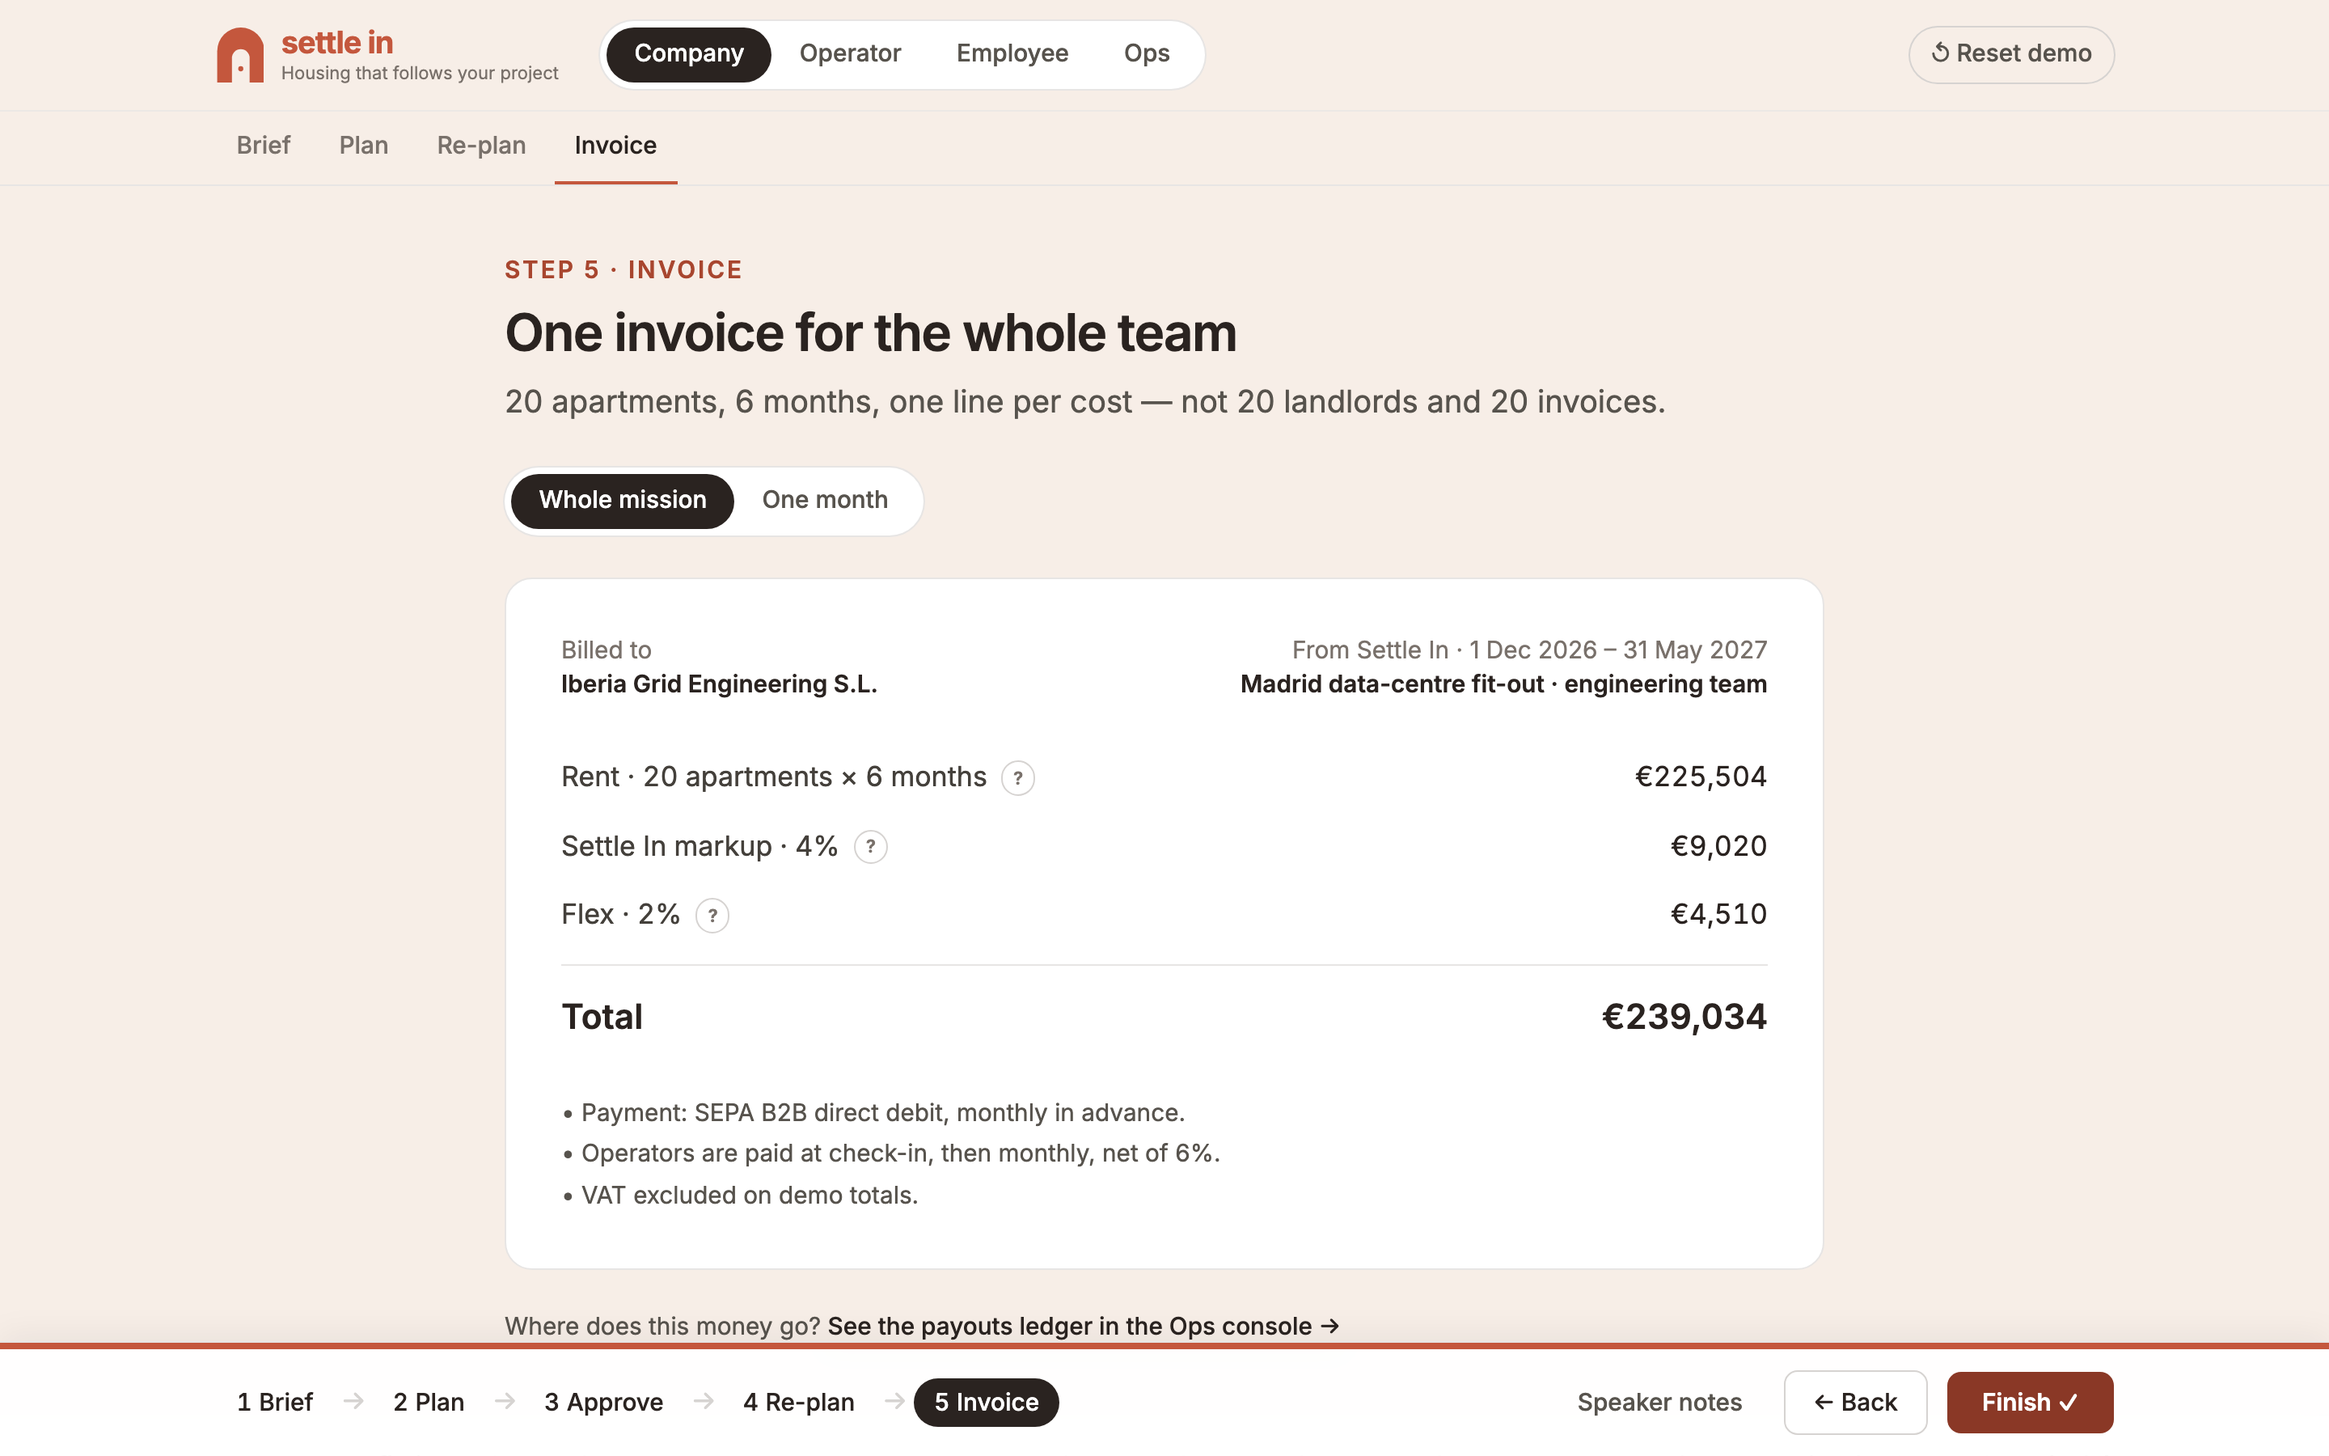
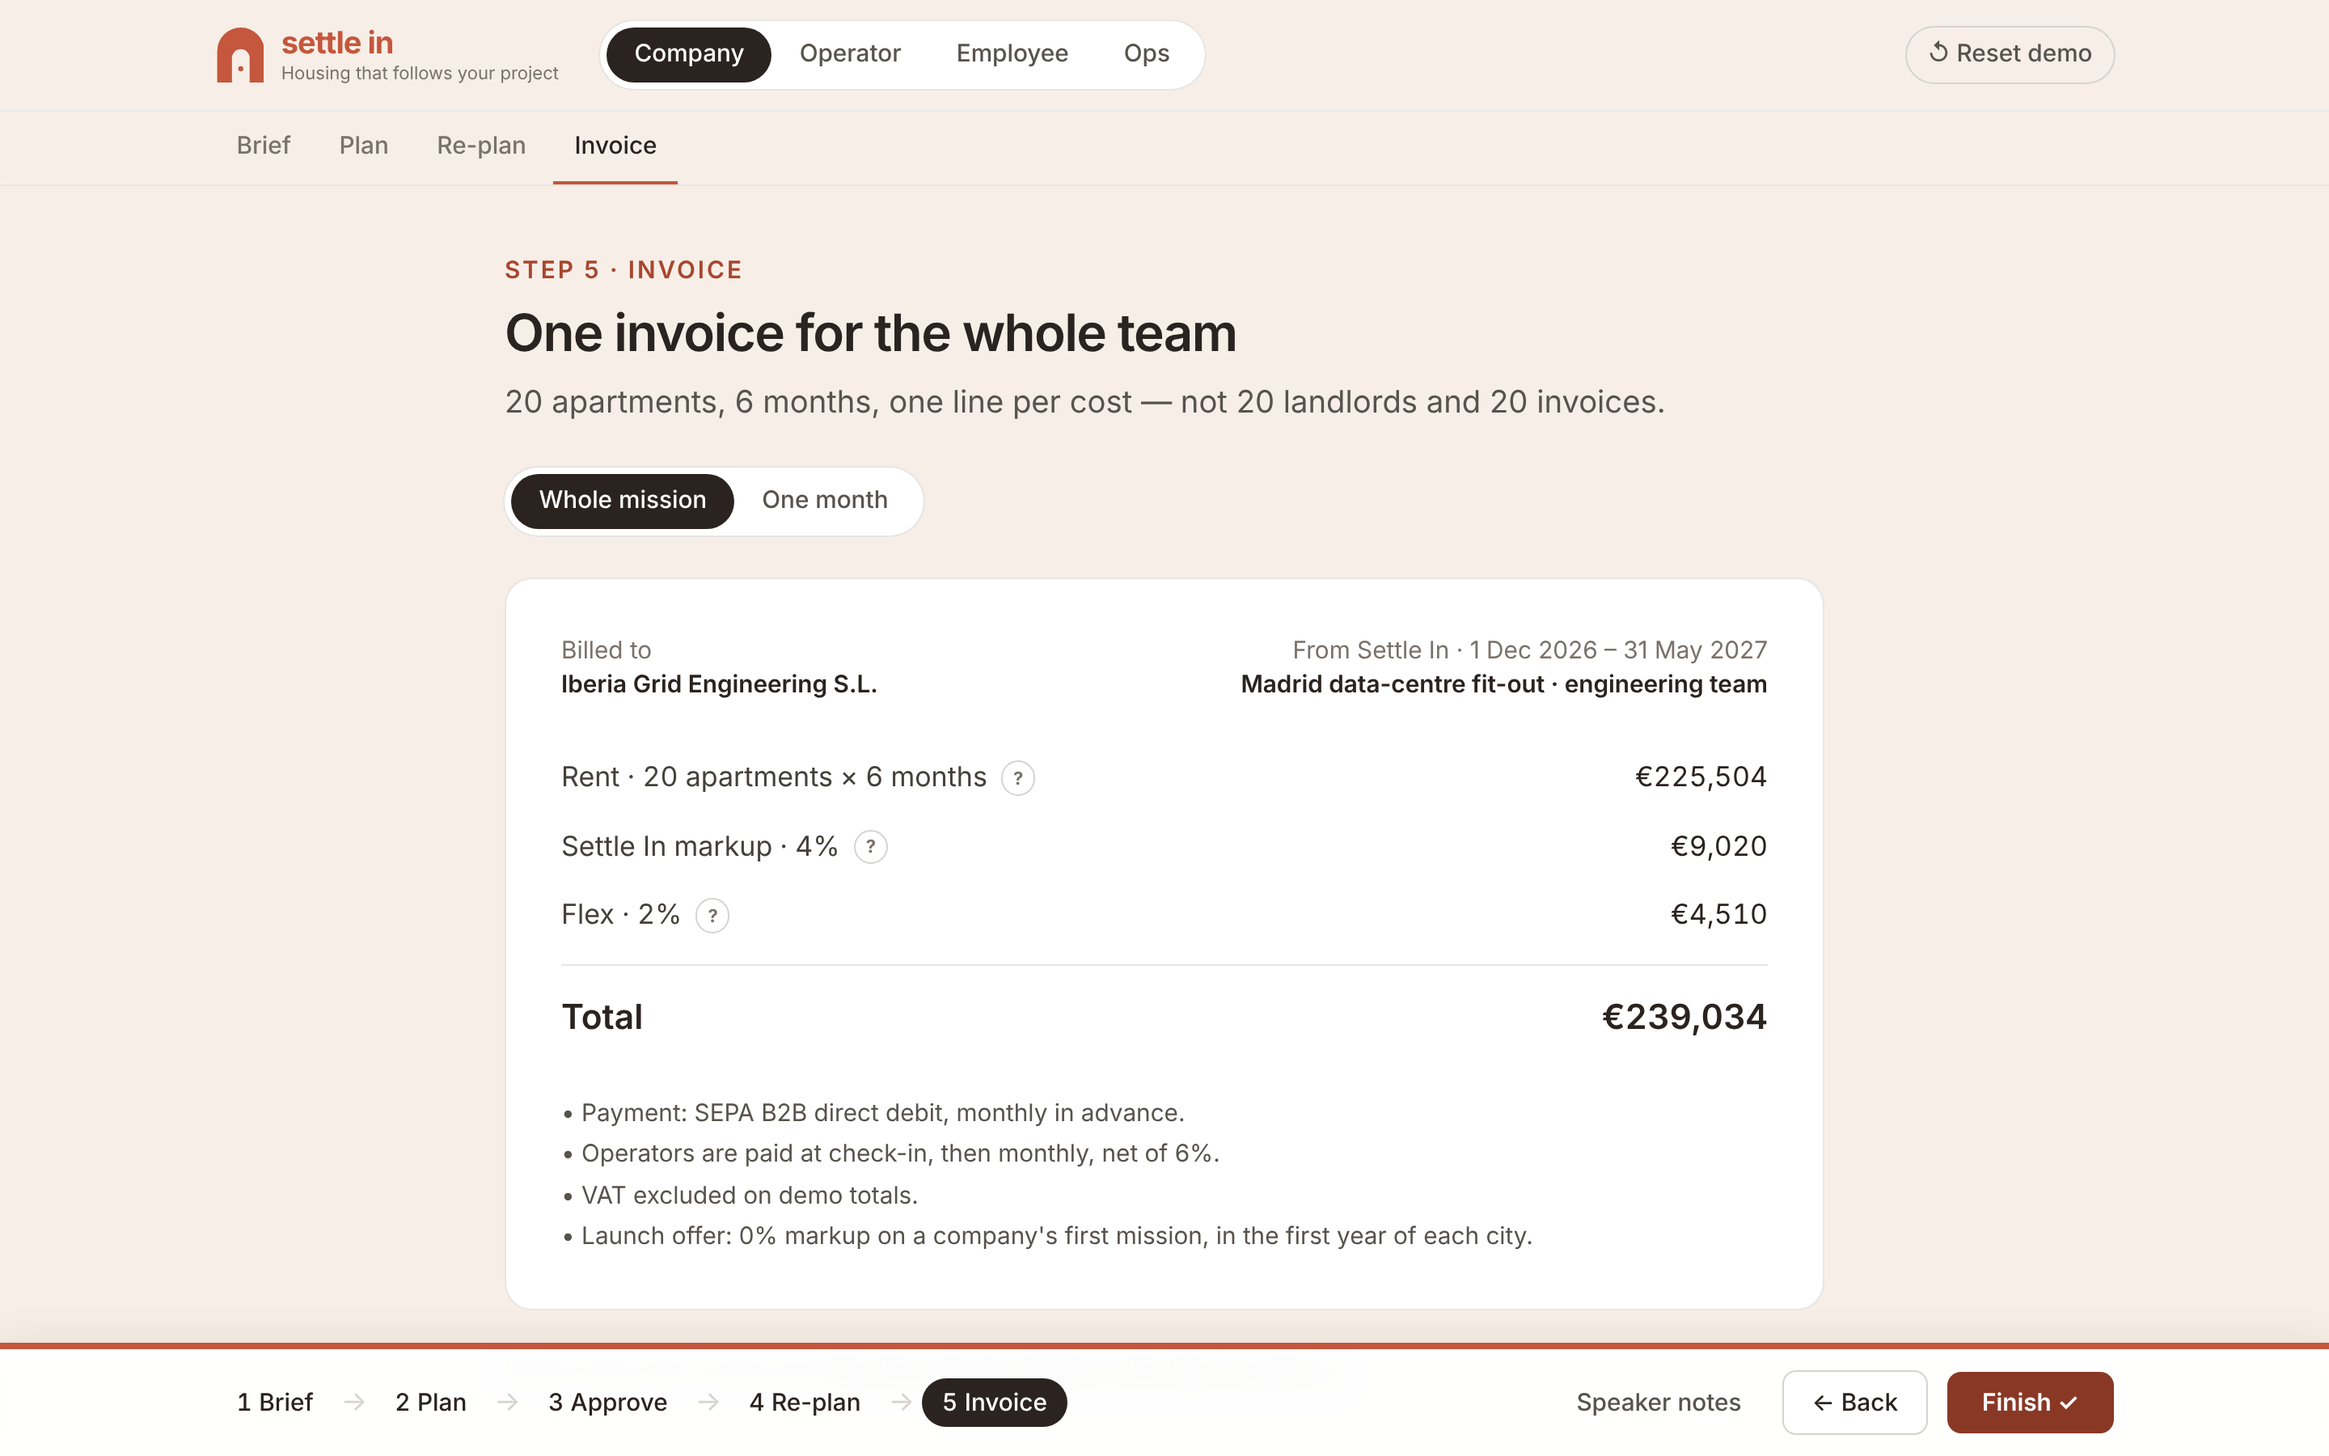
feat(facts): November 2026 business plan - break-even 177 (Madrid) / 310 (five cities), direct cost EUR 36.40, launch offer and city roll-out

Changed region(s): [[0.2188, 0.9022, 0.5625, 0.9956], [0.25, 0.84, 0.6562, 0.8711]]

diff --git a/src/pages/ops/KpiPage.tsx b/src/pages/ops/KpiPage.tsx
@@ -30,19 +30,19 @@ export default function KpiPage() {
             </>
           }
           ai
-          explain="Hours of operations work for a mission with Settle In, compared with organising the same housing manually (business plan v11)."
+          explain="Hours of operations work for a mission with Settle In, compared with organising the same housing manually (business plan, November 2026)."
           bar={K.opsHoursPerMission / K.opsHoursManual}
         />
         <Tile label="Apartments per support agent" value={`1 : ${K.apartmentsPerAgent}`} sub="AI first line + one agent" ai explain="Each support agent covers 150 occupied apartments; the AI assistant answers and triages first." />
         <Tile
-          label="Occupancy vs break-even"
+          label="Occupancy vs Madrid break-even"
           value={`${occupied} / ${be}`}
           sub={
             <>
-              occupied apartments needed to break even
+              occupied apartments to break even in Madrid alone; {K.breakEvenApartmentsFiveCities} with five cities (year 4)
             </>
           }
-          explain={`Apartments occupied in approved missions in this demo, against the ${be} occupied apartments needed to break even.`}
+          explain={`Apartments occupied in approved missions in this demo, against the ${be} occupied apartments needed to break even with Madrid alone. Each new pair of cities adds costs, so the target is ${K.breakEvenApartmentsFiveCities} with the five cities open.`}
           bar={occupied / be}
         />
       </div>

diff --git a/src/data/facts.ts b/src/data/facts.ts
@@ -7,7 +7,10 @@ export const FACTS = {
     cream: '#F7EEE7',
     ink: '#2A2320',
   },
-  cities: ['Madrid', 'Barcelona', 'Valencia', 'Málaga', 'Zaragoza'] as const,
+  cities: ['Madrid', 'Valencia', 'Zaragoza', 'Barcelona', 'Málaga'] as const,
+  // Roll-out in the business plan: Madrid first, then two cities a year.
+  rollout: { Madrid: 'Launch city', Valencia: 'Year 2', Zaragoza: 'Year 2', Barcelona: 'Year 3', 'Málaga': 'Year 3' },
+  launchOffer: "Launch offer: 0% markup on a company's first mission, in the first year of each city",
   pricing: {
     operatorCommission: 0.06,
     markupTiers: [
@@ -34,8 +37,8 @@ export const FACTS = {
     companyPays: 239034,
     revenue: 24805,
     flexPool: 2255,
-    directCostPerApartmentMonth: 36,
-    directCost: 4320,
+    directCostPerApartmentMonth: 36.4,
+    directCost: 4368,
   },
   options: {
     A: { label: 'Lowest cost', pricePerApartmentMonth: 1935, avgCommuteMin: 31 },
@@ -49,7 +52,8 @@ export const FACTS = {
     opsHoursManual: 182,
     opsHoursSaving: 0.79, // 1 − 38.5 / 182
     apartmentsPerAgent: 150,
-    breakEvenApartments: 235, // occupied apartments
+    breakEvenApartments: 177, // occupied apartments, Madrid alone
+    breakEvenApartmentsFiveCities: 310, // with the five cities open (year 4)
   },
   lease: { minDays: 31, maxMonths: 12, tenantExitAfterMonths: 1, exitNoticeDays: 10 },
   vatNote: 'VAT excluded on demo totals',

diff --git a/src/components/CityMap.tsx b/src/components/CityMap.tsx
@@ -15,7 +15,7 @@ const ringKm = (min: number) => ((min / 60) * AVG_SPEED_KMH) / ROAD_FACTOR;
 const BRAND = '#c4573d';
 const INK = '#2a2320';
 
-/** City chips: Madrid · Barcelona · Valencia · Málaga · Zaragoza. */
+/** City chips with the roll-out stage: Madrid (launch city), then two cities a year. */
 export function CityChips({ city, onChange }: { city: string; onChange: (c: string) => void }) {
   return (
     <div role="radiogroup" aria-label="City" className="flex flex-wrap gap-2">
@@ -29,6 +29,7 @@ export function CityChips({ city, onChange }: { city: string; onChange: (c: stri
           className={cx('rounded-full px-4 py-1.5 text-sm font-medium transition-colors', city === c ? 'bg-ink text-white' : 'bg-white text-ink ring-1 ring-stone-300 hover:ring-ink')}
         >
           {c}
+          <span className={cx('ml-2 text-xs font-normal', city === c ? 'text-white/70' : 'text-stone-500')}>{FACTS.rollout[c]}</span>
         </button>
       ))}
     </div>

diff --git a/src/data/facts.test.ts b/src/data/facts.test.ts
@@ -48,6 +48,10 @@ describe('SETTLE_IN_FACTS.md ↔ facts.ts', () => {
     expect(Math.round((1 - FACTS.kpi.opsHoursPerMission / FACTS.kpi.opsHoursManual) * 100)).toBe(79);
     expect(num('kpi.apartmentsPerAgent')).toBe(FACTS.kpi.apartmentsPerAgent);
     expect(num('kpi.breakEvenApartments')).toBe(FACTS.kpi.breakEvenApartments);
+    expect(num('kpi.breakEvenApartmentsFiveCities')).toBe(FACTS.kpi.breakEvenApartmentsFiveCities);
+    expect(rows['rollout']).toBe(FACTS.cities.map((c) => `${c}: ${FACTS.rollout[c]}`).join('; '));
+    expect(rows['launchOffer']).toBe(FACTS.launchOffer);
+    expect(FACTS.demo.revenue - FACTS.demo.directCost).toBe(20437);
     expect(rows['vat']).toBe(FACTS.vatNote);
     expect(md).not.toMatch(/\| CONFIRM \|/);
     expect(num('lease.tenantExitAfterMonths')).toBe(FACTS.lease.tenantExitAfterMonths);

diff --git a/src/pages/ops/LedgerPage.tsx b/src/pages/ops/LedgerPage.tsx
@@ -52,7 +52,7 @@ export default function LedgerPage() {
 
       <section className="grid gap-3 sm:grid-cols-3">
         <Stat label="Revenue" value={eur(s.revenue)} explain="Settle In net revenue for this mission." />
-        <Stat label="Direct cost" value={eur(cost)} explain={`€${FACTS.demo.directCostPerApartmentMonth} per apartment-month × ${m.apartmentMonths} apartment-months (verification, check-in, support, payments).`} />
+        <Stat label="Direct cost" value={eur(cost)} explain={`About €${FACTS.demo.directCostPerApartmentMonth.toFixed(2)} per apartment-month × ${m.apartmentMonths} apartment-months (verification, check-in, support, payments).`} />
         <Stat label="Contribution" value={eur(s.revenue - cost)} explain="Revenue minus direct cost, before fixed costs." />
       </section>
 

diff --git a/src/pages/ops/ReviewPage.tsx b/src/pages/ops/ReviewPage.tsx
@@ -138,7 +138,7 @@ export default function ReviewPage() {
 
           <div className="mt-6 flex items-center gap-2 text-sm text-stone-600">
             Brief → plan target: ≤ {FACTS.kpi.briefToPlanHours} h
-            <Explain>The engine builds the plan in milliseconds; the 48-hour target covers the human review and any calls with operators (business plan v11).</Explain>
+            <Explain>The engine builds the plan in milliseconds; the 48-hour target covers the human review and any calls with operators (business plan, November 2026).</Explain>
             <AiBadge />
           </div>
 

diff --git a/src/lib/money.ts b/src/lib/money.ts
@@ -69,4 +69,4 @@ export function replanCost(pricePerApartmentMonth: number, people: number, month
 }
 
 export const operatorPayout = (rent: number) => cents(rent * (1 - P.operatorCommission));
-export const directCost = (apartmentMonths: number) => apartmentMonths * FACTS.demo.directCostPerApartmentMonth;
+export const directCost = (apartmentMonths: number) => Math.round(apartmentMonths * FACTS.demo.directCostPerApartmentMonth);

diff --git a/src/lib/money.test.ts b/src/lib/money.test.ts
@@ -37,7 +37,7 @@ describe('pricing v11', () => {
     expect(operatorPayout(1000)).toBe(940);
   });
 
-  it('direct cost €36 per apartment-month → €4,320 for the demo', () => {
+  it('direct cost €36.40 per apartment-month → €4,368 for the demo', () => {
     expect(directCost(D.apartmentMonths)).toBe(D.directCost);
   });
 

diff --git a/src/pages/client/InvoicePage.tsx b/src/pages/client/InvoicePage.tsx
@@ -88,6 +88,7 @@ export default function InvoicePage() {
           <li>
             • {FACTS.vatNote}.
           </li>
+          <li data-testid="launch-offer">• {FACTS.launchOffer}.</li>
         </ul>
       </section>
 

diff --git a/SETTLE_IN_FACTS.md b/SETTLE_IN_FACTS.md
@@ -1,6 +1,6 @@
 # SETTLE_IN_FACTS — single source of numbers for the MVP
 
-Source: business plan **v11 (investor version)**. Every number shown in the app comes from this table.
+Source: business plan **(November 2026 version)** and the financial model (Excel). Every number shown in the app comes from this table.
 
 `src/data/facts.ts` mirrors the table below. `src/data/facts.test.ts` fails if a value drifts.
 To change a number, edit this table and `facts.ts` together.
@@ -13,7 +13,9 @@ To change a number, edit this table and `facts.ts` together.
 | brand.terracotta | #C4573D | v11 | |
 | brand.cream | #F7EEE7 | v11 | |
 | brand.ink | #2A2320 | v11 | |
-| cities | Madrid, Barcelona, Valencia, Málaga, Zaragoza | v11 | about 20 seeded units each |
+| cities | Madrid, Valencia, Zaragoza, Barcelona, Málaga | v11 | about 20 seeded units each |
+| rollout | Madrid: Launch city; Valencia: Year 2; Zaragoza: Year 2; Barcelona: Year 3; Málaga: Year 3 | BP Nov 2026 | Madrid first, then two cities a year |
+| launchOffer | Launch offer: 0% markup on a company's first mission, in the first year of each city | BP Nov 2026 | shown on the invoice page; demo totals unchanged |
 | pricing.operatorCommission | 0.06 | v11 | % of rent, deducted from the operator payout |
 | pricing.markup.1-9 | 0.05 | v11 | company markup on rent, by apartments in the mission |
 | pricing.markup.10-24 | 0.04 | v11 | |
@@ -33,8 +35,8 @@ To change a number, edit this table and `facts.ts` together.
 | demo.companyPays | 239034 | v11 | rent + 4% markup + 2% Flex (VAT excluded) |
 | demo.revenue | 24805 | v11 | 6% + 4% + 1 pt Flex of rent |
 | demo.flexPool | 2255 | derived | 1% of rent |
-| demo.directCostPerApartmentMonth | 36 | v11 | |
-| demo.directCost | 4320 | derived | 36 × 120 |
+| demo.directCostPerApartmentMonth | 36.4 | BP Nov 2026 | shown as about €36 in the plan |
+| demo.directCost | 4368 | derived | 36.4 × 120 |
 | options.A | 1935 / 31 | v11 | lowest cost: € per apartment-month (all-in) / average commute min |
 | options.B | 1992 / 22 | v11 | balanced — recommended and released |
 | options.C | 2140 / 12 | v11 | closest |
@@ -50,7 +52,8 @@ To change a number, edit this table and `facts.ts` together.
 | kpi.opsHoursManual | 182 | v11 | ops hours per mission done by hand |
 | kpi.opsHoursSaving | 0.79 | derived | 1 − 38.5 ÷ 182 ≈ −79% |
 | kpi.apartmentsPerAgent | 150 | v11 | 1 support agent per 150 apartments |
-| kpi.breakEvenApartments | 235 | v11 | occupied apartments at break-even |
+| kpi.breakEvenApartments | 177 | BP Nov 2026 | occupied apartments at break-even, Madrid alone |
+| kpi.breakEvenApartmentsFiveCities | 310 | BP Nov 2026 | with the five cities open (year 4) |
 | lease.minDays | 31 | v11 | more than 31 days |
 | lease.maxMonths | 12 | v11 | |
 | lease.tenantExitAfterMonths | 1 | RDL 29/2026 | tenant may leave after 1 month (LAU art. 11.2) |
@@ -65,5 +68,5 @@ To change a number, edit this table and `facts.ts` together.
 - Settle In revenue: 225,504 × (0.06 + 0.04 + 0.01) = 24,805.44 → **€24,805**
 - Flex pool (operators): 225,504 × 0.01 = **€2,255**
 - Operator payout: 225,504 × 0.94 = **€211,974**, plus the Flex pool
-- Direct cost: 120 × €36 = **€4,320**; contribution ≈ **€20,485**
+- Direct cost: 120 × €36.40 = **€4,368**; contribution = 24,805 − 4,368 = **€20,437** (€170 per apartment-month)
 - Re-plan: 3 engineers × €1,992 × 4 months = **+€23,904**; 23 apartments → still 4% tier

diff --git a/README.md b/README.md
@@ -4,9 +4,9 @@
 
 1. **Live demo:** https://settle-in-app.netlify.app (mirror: https://lucasmachadocr.github.io/proptech-project/). Click **Start the demo** and use **Next →** in the bottom bar (Brief → Plan → Approve → Re-plan → Invoice). "Reset demo" is in the header.
 2. **Demo case:** 20 engineers in Madrid for 6 months. The engine offers A lowest cost €1,935 / 31 min, B balanced €1,992 / 22 min (recommended), C closest €2,140 / 12 min per apartment-month. A person reviews before the client sees it.
-3. **Pricing (business plan v11):** 6% operator commission + company markup 5% / 4% / 3% (1–9 / 10–24 / 25+ apartments) + optional Flex 2% (1 pt revenue, 1 pt operator pool). Demo: rent €225,504 → company pays €239,034 → Settle In revenue €24,805.
+3. **Pricing (business plan, November 2026):** 6% operator commission + company markup 5% / 4% / 3% (1–9 / 10–24 / 25+ apartments) + optional Flex 2% (1 pt revenue, 1 pt operator pool). Demo: rent €225,504 → company pays €239,034 → Settle In revenue €24,805.
 4. **Re-plan:** +3 engineers from month 3 → 3 × €1,992 × 4 months = +€23,904, nobody moves, 23 apartments (still 4%).
-5. **Ops console:** plan review, verification (KYC, Catastro, duplicate photos, price, regional registration — a fake listing is caught), lease compliance (RDL 29/2026, signing blocked on red), payouts ledger (Flex pool kept out of revenue), KPIs (38.5 vs 182 ops hours, 1 agent per 150 apartments, break-even 235).
+5. **Ops console:** plan review, verification (KYC, Catastro, duplicate photos, price, regional registration — a fake listing is caught), lease compliance (RDL 29/2026, signing blocked on red), payouts ledger (Flex pool kept out of revenue), KPIs (38.5 vs 182 ops hours, 1 agent per 150 apartments, break-even 177 apartments in Madrid, 310 with five cities).
 6. **Employee:** a WhatsApp-style chat (welcome pack, check-in photos, AI issue triage) — no app.
 7. **All numbers** come from `SETTLE_IN_FACTS.md` and `src/data/facts.ts`, locked by tests. All data is fictional.
 8. **Run locally:** `npm install`, then `npm run dev` (http://localhost:5173). Tests: `npm test` · demo e2e: `npm run e2e` · deck screenshots: `npm run shots`.

diff --git a/CLAUDE.md b/CLAUDE.md
@@ -2,7 +2,7 @@
 
 Clickable, 100% static MVP of a B2B managed marketplace that houses project teams (engineers, 1–12
 months) in verified furnished apartments in Madrid, Barcelona, Valencia, Málaga and Zaragoza.
-Source of truth: business plan v11 (investor version) → **SETTLE_IN_FACTS.md**.
+Source of truth: business plan (November 2026 version) and the financial model → **SETTLE_IN_FACTS.md**.
 The same rules apply to every AI assistant: see AGENTS.md (identical content for GPT/Codex/others).
 
 ## Rules
